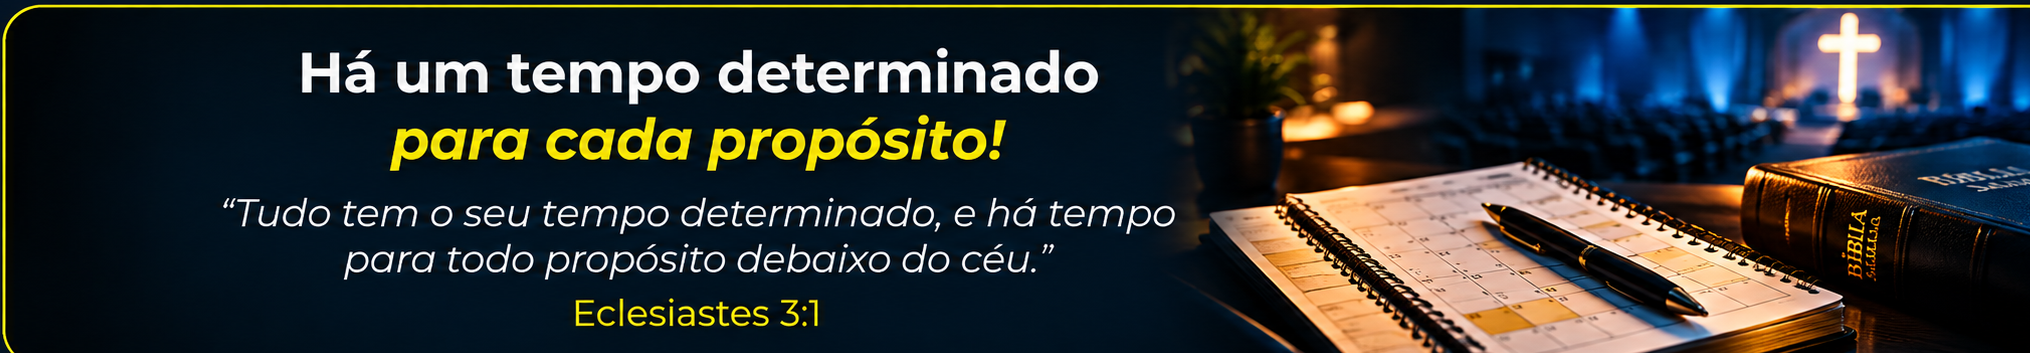
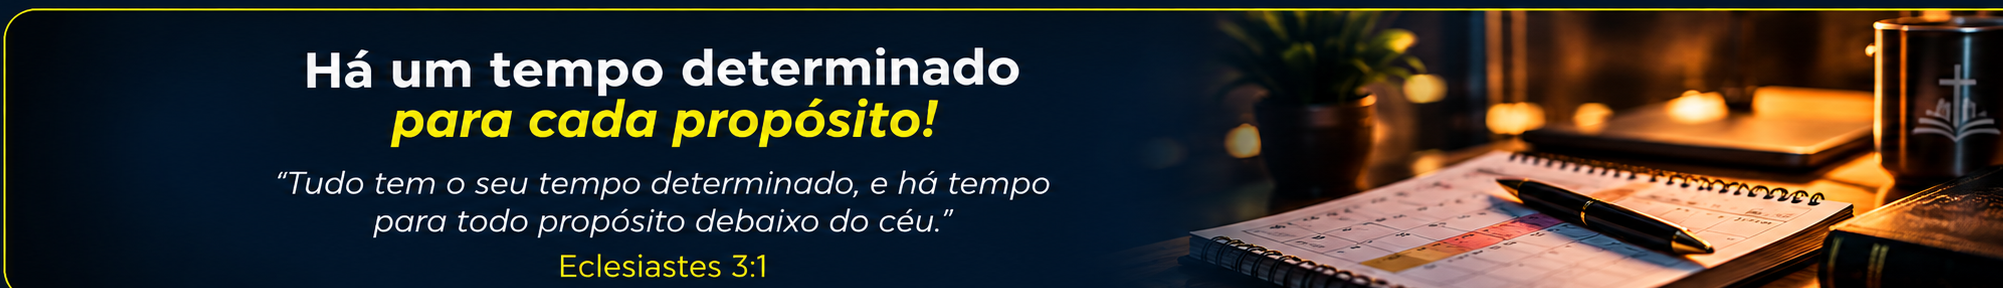
Add files via upload

diff --git a/agenda.html b/agenda.html
@@ -342,7 +342,8 @@
       }
     .fundamento-imagem {
       width: min(100% - 28px, 1220px);
-      height: 160px;
+      aspect-ratio: 7 / 1;
+      height: auto;
       margin: 16px auto 0;
       border: 1px solid rgba(255,255,0,.62);
       border-radius: 20px;
@@ -354,7 +355,8 @@
       display: block;
       width: 100%;
       height: 100%;
-      object-fit: fill;
+      object-fit: cover;
+      object-position: center;
     }
 
 
@@ -424,8 +426,7 @@
     .painel-aviso { color:#ffff00; line-height:1.55; font-size:14px; padding:12px 2px; }
     body.menu-aberto { overflow:hidden; }
 
-  @media (max-width: 720px) { .fundamento-imagem { width: calc(100% - 22px); height: 112px; margin-top: 12px; border-radius: 16px; } }
-</style>
+  </style>
 </head>
 
 <body>
